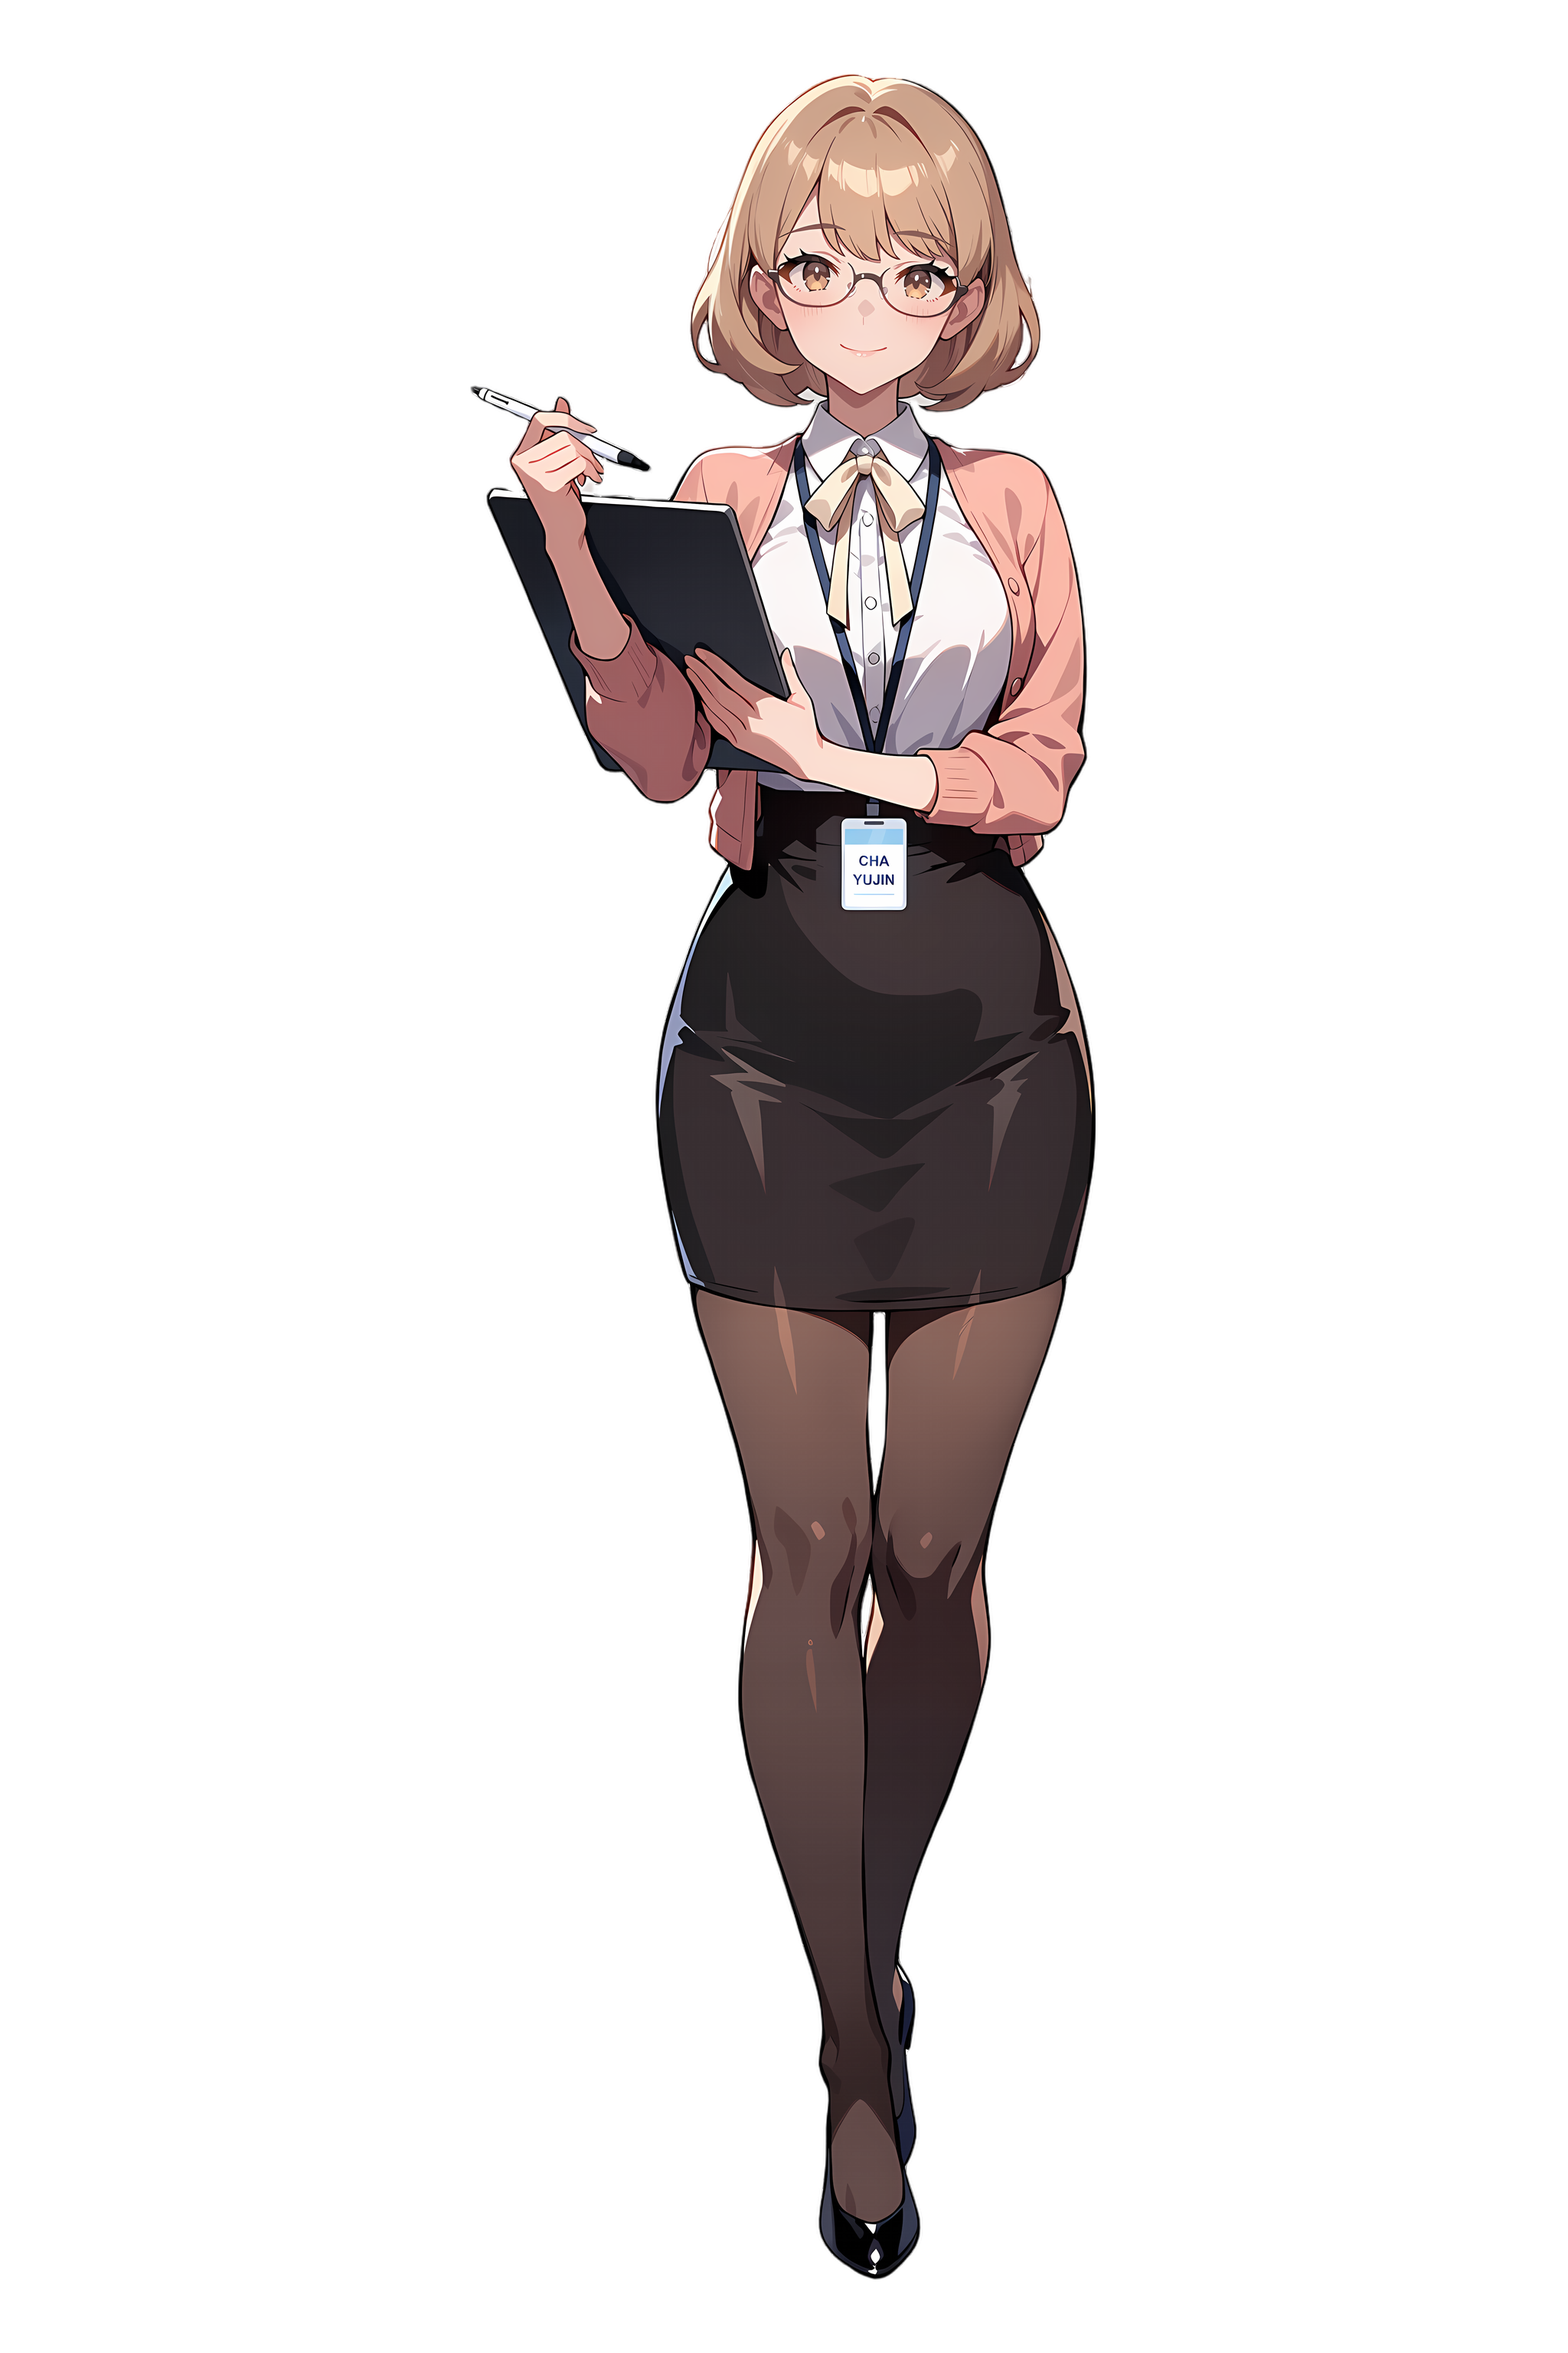
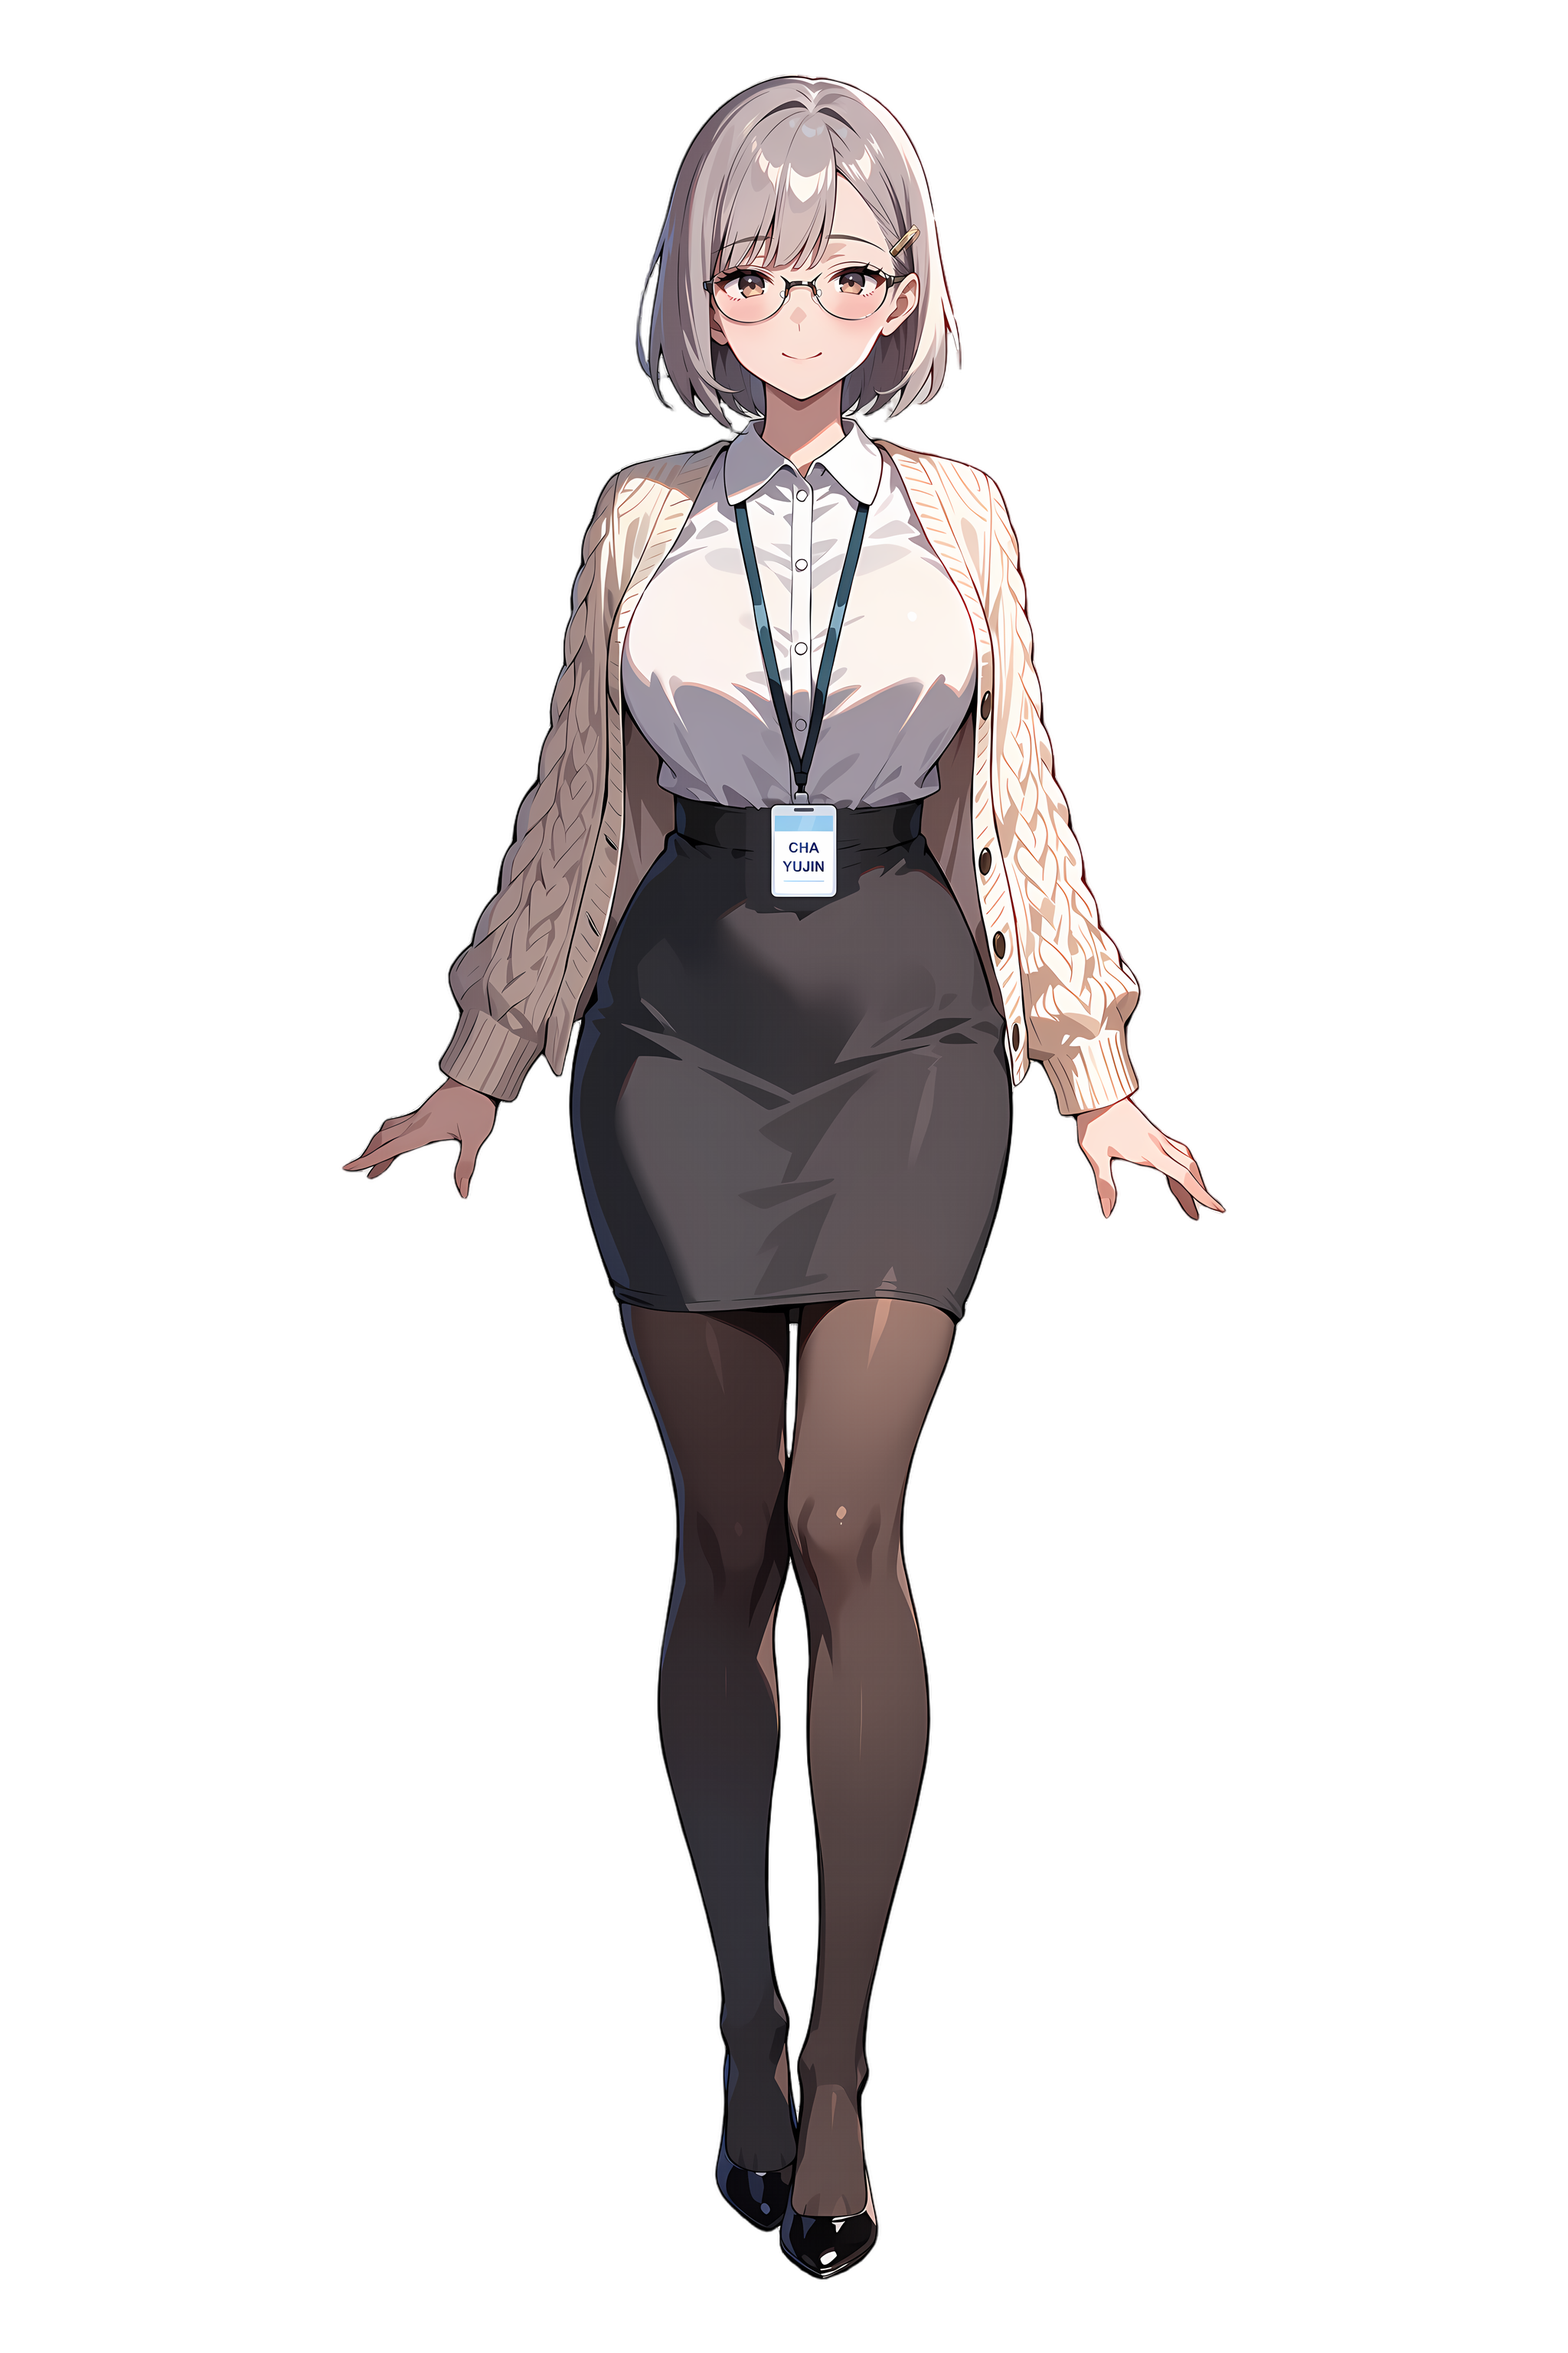
Give Cha Yujin a silver bob and cream cardigan look
Following the user's reference picture: straight silver-white bob with
a gold hair clip, thin round wire glasses, cream cable-knit cardigan
over a white blouse, charcoal pencil skirt and pantyhose, with legs
slimmed to match the other heroines. Uniform ID card, both sizes.
APPEARANCE_CURRENT and the masters README now describe this look and
note the hair clip as an approved exception.

Changed region(s): [[0.2188, 0.0312, 0.7812, 0.9688]]

diff --git a/CharacterArt/APPEARANCE_CURRENT.md b/CharacterArt/APPEARANCE_CURRENT.md
@@ -21,7 +21,7 @@
 | [강리아](character_art_02_RIA.md) | 갸름한 얼굴, 아주 긴 웨이브 금발 높은 포니테일, **파란 슈슈**, 일자 앞머리, **파란 눈**, 밝게 웃는 입 | 비치지 않는 흰 면 칼라 블라우스·접어 올린 소매, 검정 하이웨이스트 펜슬 스커트, 비치는 검정 팬티스타킹, 검정 에나멜 펌프스, 남색 사원증 |
 | [백지현](character_art_03_JIHYUN.md) | 아주 긴 크림슨 웨이브, 옆 가르마 앞머리, 붉은 갈색 눈과 자신감 있는 눈매, 매력점 없음 | 버건디 셔츠, 차콜 테일러드 재킷, 차콜·검정 하이웨이스트 **펜슬 스커트**와 검정 벨트·작은 직사각 버클, 비치는 검정 팬티스타킹, 검정 스틸레토, 남색 사원증 |
 | [한서윤](character_art_05_SEOYUN.md) | 갸름한 계란형 얼굴, 짙은 플럼·검보라 긴 웨이브, 반쯤 감은 회청·라벤더 눈, **왼쪽 눈 아래 매력점** | 연라벤더 칼라 블라우스·접은 소매·윗단추 하나 풂, 남색 하이웨이스트 펜슬 스커트와 검정 벨트, **가터벨트+검정 레이스 밴드 니삭스**, 검정 펌프스, 남색 사원증 |
-| [차유진](character_art_04_YUJIN.md) | 갸름한 성인 얼굴, **베이지 금발 단발**(끝이 안으로 말림), 옆으로 넘긴 앞머리, **얇은 검정 사각 안경**, 호박색 눈 | 브랜드디자이너. 흰 칼라 블라우스와 크림색 목 리본, **더스티 핑크 긴소매 카디건**(앞 열림), 검정 하이웨이스트 펜슬 스커트, 비치는 검정 팬티스타킹, 검정 펌프스, **드로잉 태블릿과 스타일러스**, 남색 사원증 |
+| [차유진](character_art_04_YUJIN.md) | 갸름한 성인 얼굴, **은백색 단발**(앞쪽이 약간 긴 생머리), 옆으로 넘긴 앞머리, **한쪽 금색 머리핀**, **얇은 둥근 금속테 안경**, 호박·갈색 눈, 차분한 미소 | 브랜드디자이너. **크림색 꽈배기 니트 카디건**(앞 열림), 흰 칼라 블라우스, 차콜 그레이 하이웨이스트 펜슬 스커트, 비치는 검정 팬티스타킹, 검정 에나멜 펌프스, 남색 사원증. 성숙한 곡선 체형 |
 
 네 명의 눈·턱·가르마·체형을 한 얼굴로 통일하지 않는다. 색은 생성 결과의 관찰값이며 임의 HEX 값으로 대체하지 않는다.
 
@@ -30,7 +30,7 @@
 - 네 명 모두 스타킹을 신는다. 백지현은 바지 대신 펜슬 스커트.
 - 강리아: 큰 남색 리본·녹청색 눈 → 파란 슈슈·파란 눈(기존 강리아 마스터 그림 기준).
 - 한서윤: 매력점을 넣고 가터벨트·레이스 니삭스로 바꿨다.
-- 차유진: 따뜻한 갈색 보브 → 베이지 금발 단발·안경. 분홍 카디건·목 리본은 유지하고, 디자이너 직업에 맞춰 드로잉 태블릿·스타일러스를 든다(2026-11-14, 비서룩 안을 대체).
+- 차유진: 따뜻한 갈색 보브·분홍 카디건 → 은백색 단발·금색 머리핀·둥근 안경·크림 니트 카디건(2026-11-14 사용자 참고 그림 기준). 머리핀은 "머리 장식 없음" 규칙의 사용자 승인 예외다.
 - 사원증 카드에 영어 이름(KANG RIA / BAEK JIHYUN / HAN SEOYUN / CHA YUJIN)을 쓴다. 사진·로고는 넣지 않는다.
 
 ## 공통 유지·미확인 범위

diff --git a/CharacterArt/candidates/heroine-masters-v001/README.md b/CharacterArt/candidates/heroine-masters-v001/README.md
@@ -10,7 +10,7 @@
 | `ria_office_pose01_neutral_v001.png` | 강리아 | 1002 | KANG RIA |
 | `jihyun_office_pose01_neutral_v001.png` | 백지현 | 1002 | BAEK JIHYUN |
 | `seoyun_office_pose01_neutral_v001.png` | 한서윤 | 1003 | HAN SEOYUN |
-| `yujin_office_pose01_neutral_v001.png` | 차유진 | 1103 | CHA YUJIN |
+| `yujin_office_pose01_neutral_v001.png` | 차유진 | 1231 | CHA YUJIN |
 
 ## 제작 방식
 
@@ -26,7 +26,7 @@
 - 네 명 모두 스타킹. 백지현은 바지 대신 펜슬 스커트.
 - 강리아: 큰 남색 리본·녹청색 눈 대신 파란 슈슈·파란 눈(기존 강리아 마스터 그림 기준).
 - 한서윤: 매력점 넣음, 가터벨트+레이스 스타킹.
-- 차유진: 베이지 금발 단발·안경, 분홍 카디건·목 리본 블라우스, 드로잉 태블릿·스타일러스를 든 디자이너 차림(2026-11-14, 같은 seed 1103의 비서룩 안을 대체).
+- 차유진: 은백색 단발·한쪽 금색 머리핀·얇은 둥근 안경, 크림 니트 카디건·흰 블라우스·차콜 펜슬 스커트의 디자이너 차림(2026-11-14 사용자 참고 그림 기준, 화풍 기준 그림은 한서윤 원본). 이전 비서룩·분홍 카디건 안을 대체.
 - 사원증에 영어 이름 표기.
 
 ## 남은 일
